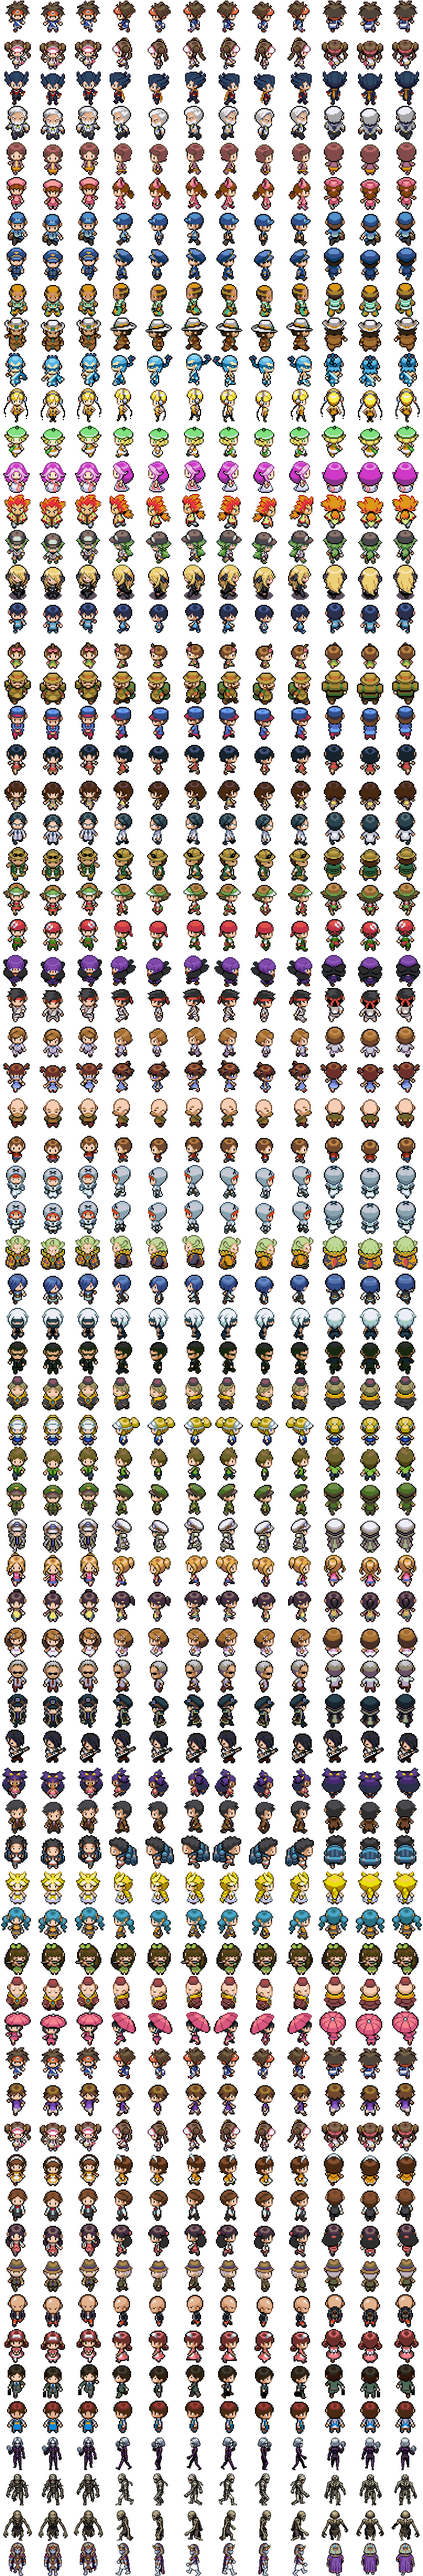
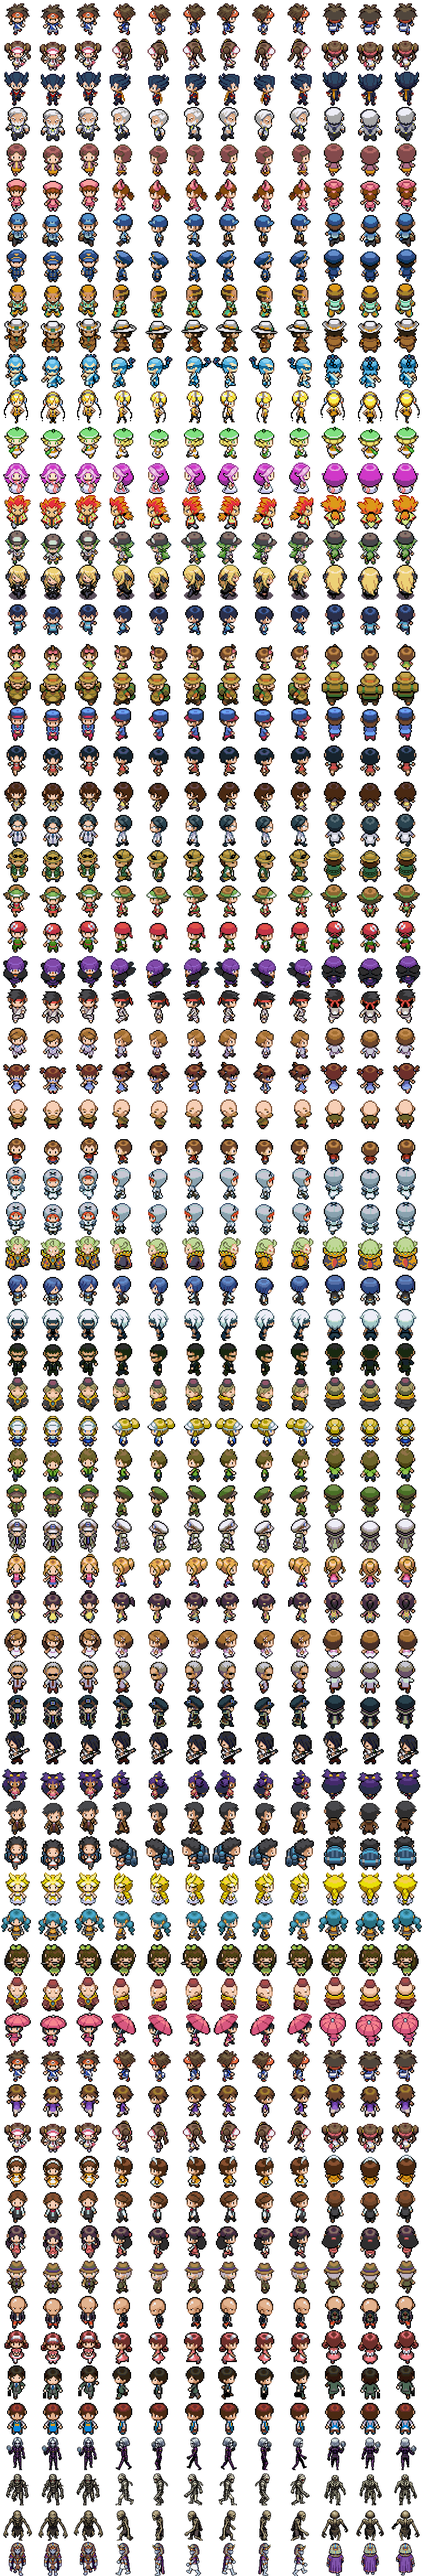
fix(odyssee): ancrage au sol des personnages, objets et batiments Noir & Blanc

diff --git a/tools/odyssee-pack-noirblanc.py b/tools/odyssee-pack-noirblanc.py
@@ -265,25 +265,25 @@ D = {
     'tree': feuillu, 'tree2': flip(feuillu), 'tree3': feuillu, 'pine': sapin,
     'snowpine': feuilles(sapin, (215, 235, 250)),
     'arbre_automne': feuilles(feuillu, (235, 150, 40)), 'erable': feuilles(feuillu, (220, 70, 45)), 'cerisier': feuilles(feuillu, (250, 165, 195)),
-    'bush': net(trim(BW.crop((0, 632, 32, 672)))), 'lamp': net(trim(BW.crop((224, 608, 256, 736)))).resize((16, 60), Image.NEAREST),
+    'bush': trim(net(BW.crop((0, 632, 32, 672)))), 'lamp': trim(trim(net(BW.crop((224, 608, 256, 736)))).resize((16, 60), Image.NEAREST)),
     'rock': trim(L('objet_rocher.png').crop((0, 0, 32, 32))), 'cuttree': trim(L('objet_arbuste.png').crop((0, 0, 32, 32))),
-    'pot': net(trim(BW.crop((192, 21248, 224, 21310)))),
-    'mailbox': net(trim(BW.crop((160, 5632, 192, 5696)))),
-    'statue': net(trim(BW.crop((192, 21312, 224, 21376)))),
-    'gymstatue': net(trim(BW.crop((192, 21312, 224, 21376)))),
-    'banc': net(trim(BW.crop((0, 3200, 64, 3264)))),
-    'parasol': net(trim(BW.crop((144, 21056, 208, 21136)))).resize((48, 50), Image.NEAREST),
-    'fence': net(trim(BW.crop((32, 796, 64, 832)))),
-    'barriere': net(trim(BW.crop((32, 796, 64, 832)))),
-    'barriere_fin': net(trim(BW.crop((32, 796, 64, 832)))),
-    'barriere_v': net(trim(BW.crop((0, 824, 32, 864)))),
-    'barriere_v0': net(trim(BW.crop((0, 824, 32, 864)))),
+    'pot': trim(net(BW.crop((192, 21248, 224, 21310)))),
+    'mailbox': trim(net(BW.crop((160, 5632, 192, 5696)))),
+    'statue': trim(net(BW.crop((192, 21312, 224, 21376)))),
+    'gymstatue': trim(net(BW.crop((192, 21312, 224, 21376)))),
+    'banc': trim(net(BW.crop((0, 3200, 64, 3264)))),
+    'parasol': trim(trim(net(BW.crop((144, 21056, 208, 21136)))).resize((48, 50), Image.NEAREST)),
+    'fence': trim(net(BW.crop((32, 796, 64, 832)))),
+    'barriere': trim(net(BW.crop((32, 796, 64, 832)))),
+    'barriere_fin': trim(net(BW.crop((32, 796, 64, 832)))),
+    'barriere_v': trim(net(BW.crop((0, 824, 32, 864)))),
+    'barriere_v0': trim(net(BW.crop((0, 824, 32, 864)))),
 }
 # mobilier du Centre Pokémon et panneau de bois des routes
-D['plant'] = net(trim(CENTRE.crop((192, 1096, 224, 1170)))); D['pc'] = net(trim(CENTRE.crop((192, 1010, 224, 1090))))
-D['healer'] = net(trim(CENTRE.crop((130, 1012, 192, 1082)))); D['bench'] = net(trim(CENTRE.crop((64, 960, 160, 992))))
-D['fontaine'] = trim(net(BW.crop((8, 11356, 152, 11570)))).resize((48, 68), Image.NEAREST)
-D['sign'] = net(trim(BW.crop((176, 98 * 32, 256, 100 * 32)))).resize((32, 28), Image.NEAREST)
+D['plant'] = trim(net(CENTRE.crop((192, 1096, 224, 1170)))); D['pc'] = trim(net(CENTRE.crop((192, 1010, 224, 1090))))
+D['healer'] = trim(net(CENTRE.crop((130, 1012, 192, 1082)))); D['bench'] = trim(net(CENTRE.crop((64, 960, 160, 992))))
+D['fontaine'] = trim(trim(net(BW.crop((8, 11356, 152, 11570)))).resize((48, 68), Image.NEAREST))
+D['sign'] = trim(trim(net(BW.crop((176, 98 * 32, 256, 100 * 32)))).resize((32, 28), Image.NEAREST))
 # devant les jambes de qui marche dans les hautes herbes : le bas de la touffe
 bas = lambda t: t.crop((0, 16, 32, 32))
 D['grassfront'], D['grassfront2'] = bas(touffe), bas(flip(touffe))
@@ -360,6 +360,9 @@ for nom, (x0, y0, x1, y1, porte) in BATS.items():
         im = trim(net(BW.crop((x0, y0, x1, y1)))).resize((96, 136), Image.NEAREST)
     else:
         im = net(BW.crop((x0, y0, x1, y1)))
+    by = np.where(np.array(im)[..., 3] > 0)[0]
+    if len(by):
+        im = im.crop((0, 0, im.width, int(by.max()) + 1))
     im.save(os.path.join(OUT, f'b_{nom}.png'))
 
 # ------------------------------------------------------------------ personnages
@@ -374,32 +377,26 @@ for nom, fichier in PERSOS.items():
     src = L(os.path.join('persos', fichier + '.png')); fw, fh = src.width // 4, src.height // 4
     y = rows[nom] * 64
     chars.paste((0, 0, 0, 0), (0, y, 768, y + 64))
-    # bornes sur toute la planche du personnage : on garde toute la coiffure et les côtés sans couper un seul pixel
-    ymin, ymax, xmin, xmax = fh, 0, fw, 0
-    for d in range(4):
-        for f in (1, 0, 3):
-            ys, xs = np.where(np.array(src.crop((f * fw, d * fh, f * fw + fw, d * fh + fh)))[..., 3] > 0)
-            if len(ys):
-                ymin, ymax = min(ymin, int(ys.min())), max(ymax, int(ys.max()) + 1)
-                xmin, xmax = min(xmin, int(xs.min())), max(xmax, int(xs.max()) + 1)
-    y_crop = max(0, min(ymin, ymax - 62)) if fh > 64 else 0
-    x_crop = max(0, min(xmin, min(fw - 64, (xmin + xmax - 64) // 2))) if fw > 64 else 0
     for d in range(4):
         for k, f in enumerate((1, 0, 3)):
             fr = src.crop((f * fw, d * fh, f * fw + fw, d * fh + fh))
             ys, xs = np.where(np.array(fr)[..., 3] > 0)
-            xc = max(0, min(int(xs.min()), min(fw - 64, (int(xs.min()) + int(xs.max()) + 1 - 64) // 2))) if fw > 64 and len(xs) else x_crop
-            if fh > 64 and len(ys) and int(ys.max()) - int(ys.min()) + 1 > 64:
+            if not len(ys):
+                continue
+            ymin_f, ymax_f = int(ys.min()), int(ys.max()) + 1
+            xmin_f, xmax_f = int(xs.min()), int(xs.max()) + 1
+            xc = max(0, min(xmin_f, min(fw - 64, (xmin_f + xmax_f - 64) // 2))) if fw > 64 else 0
+            dx = 0 if fw > 64 else (64 - fw) // 2
+            if ymax_f - ymin_f > 64:
                 # cas unique où une pose dépasse 64 px (Célestine, 66 px) : on tasse 2 lignes unies au milieu de la robe
-                a_fr = np.array(fr)[int(ys.min()):int(ys.max()) + 1, xc:xc + 64]
+                a_fr = np.array(fr)[ymin_f:ymax_f, xc:xc + 64]
                 keep = [i for i in range(a_fr.shape[0]) if i not in (44, 45)][:64]
                 c = Image.fromarray(a_fr[keep], 'RGBA')
-            elif fh > 64:
-                yc = max(0, min(int(ys.min()), y_crop)) if len(ys) and int(ys.max()) - y_crop < 64 else (max(0, int(ys.max()) - 63) if len(ys) else y_crop)
-                c = fr.crop((xc, yc, xc + 64, yc + 64))
             else:
+                # pieds posés tout en bas de la case (y = 64) pour éviter que le sprite flotte au-dessus de son ombre
+                sub = fr.crop((xc, ymin_f, xc + min(64, fw), ymax_f))
                 c = Image.new('RGBA', (64, 64))
-                c.alpha_composite(fr, ((64 - fw) // 2, 64 - fh - (4 if fh <= 60 else 0)))
+                c.alpha_composite(sub, (dx, 64 - (ymax_f - ymin_f)))
             chars.alpha_composite(c, ((d * 3 + k) * 64, y))
     faits += 1
 chars.save(os.path.join(OUT, 'chars.png'))
